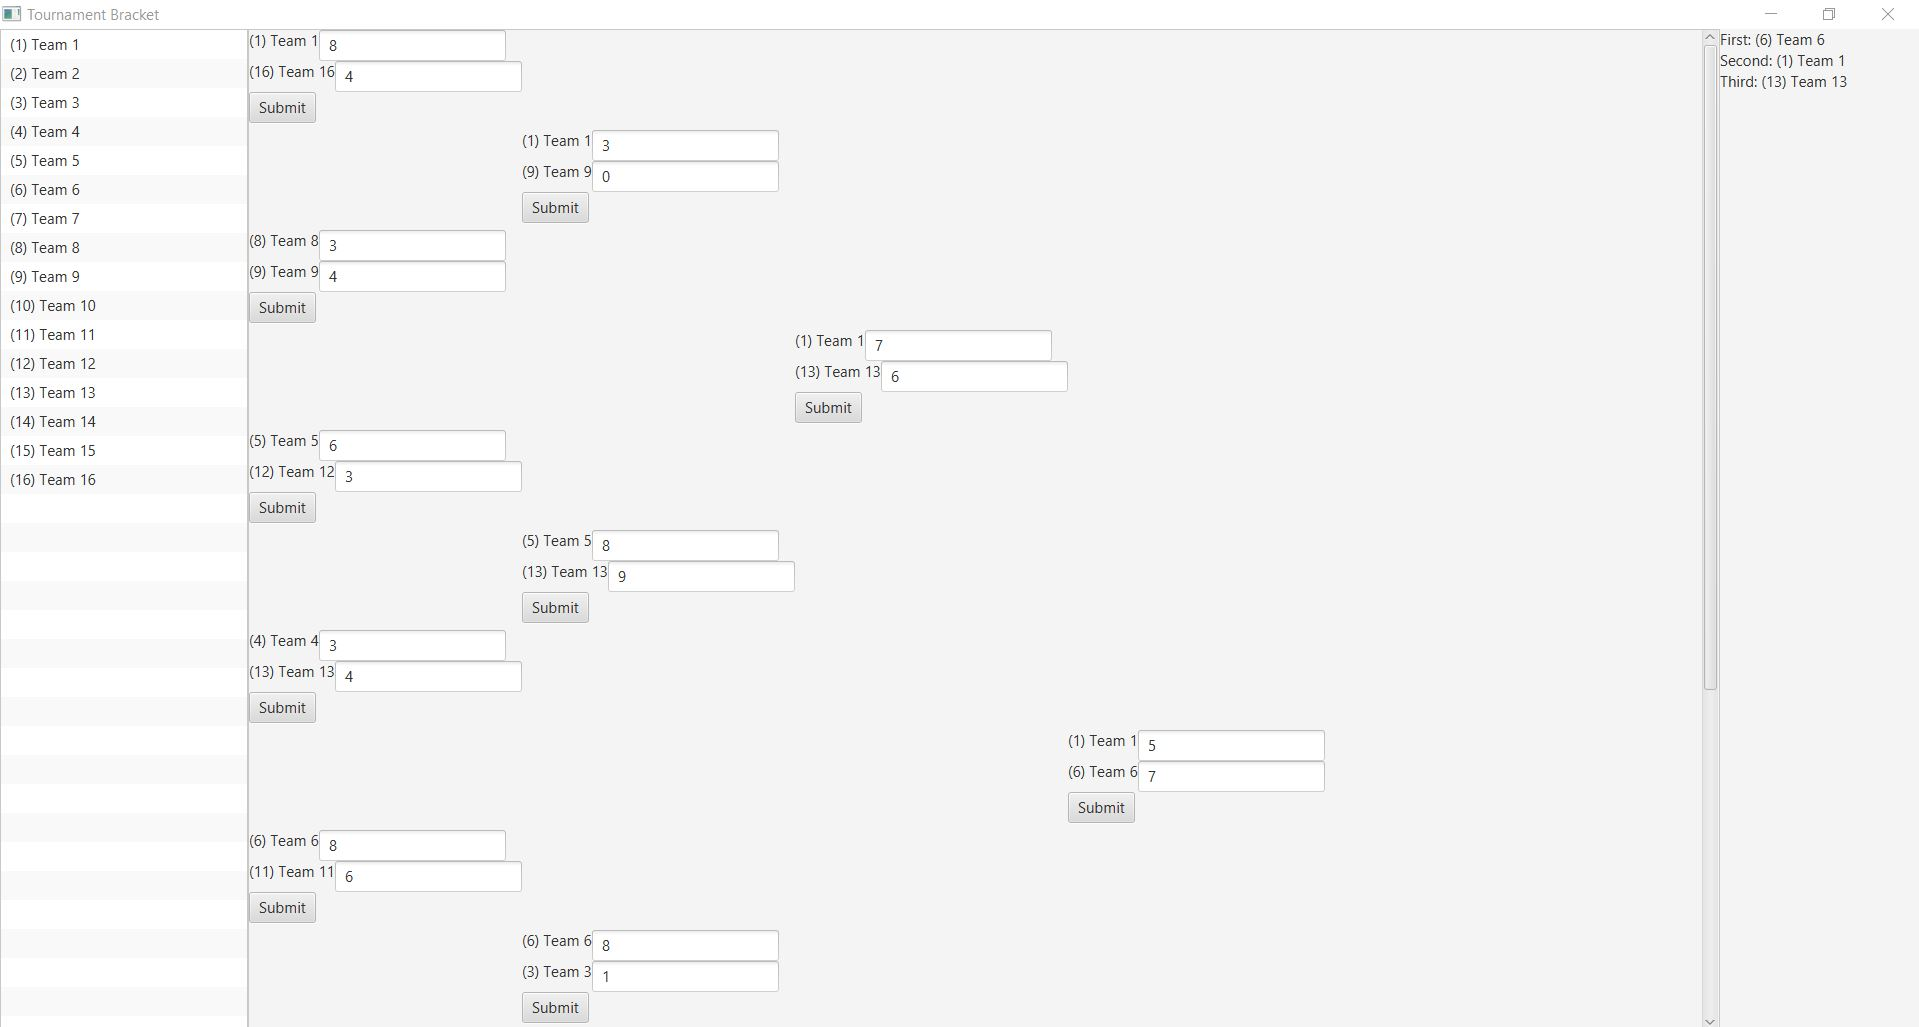
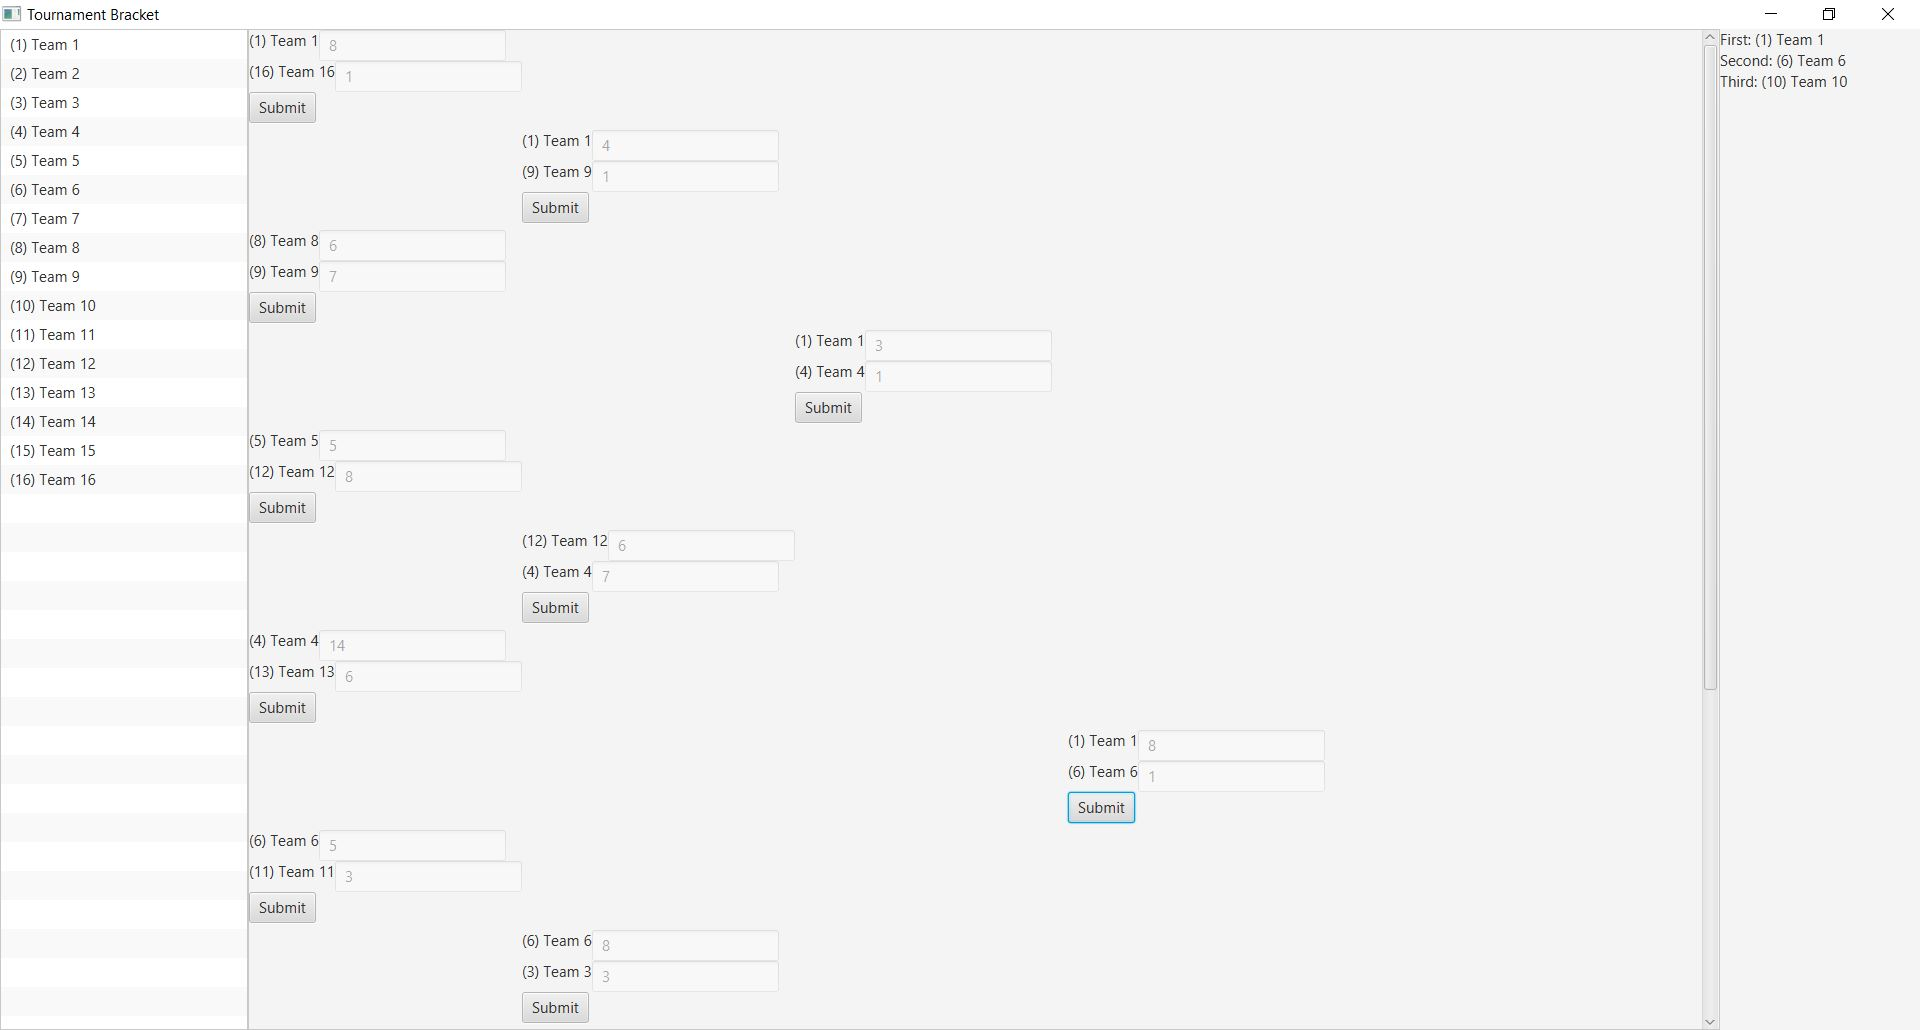
Disabled text-boxes after the submit button has been pressed.

diff --git a/TournamentBracketGui/src/application/VersusBox.java b/TournamentBracketGui/src/application/VersusBox.java
@@ -67,10 +67,13 @@ public class VersusBox extends VBox implements Scoreable, EventHandler<ActionEve
 	// describes the round (semi-final, final, etc.)
 	private TypeOfMatch matchType;
 
-	// descibes the position of the box in its pairing of two matches. Determines
+	// describes the position of the box in its pairing of two matches. Determines
 	// whether the winning team will be sent to the top or bottom slot of the next
 	// round.
 	boolean topGame;
+	
+	// whether the game match has been completed and the winning team has been sent to the next round
+	boolean isSent = false;
 
 	/**
 	 * The no-args constructor for VersusBox. Places appropriate GUI elements in the
@@ -403,7 +406,10 @@ public class VersusBox extends VBox implements Scoreable, EventHandler<ActionEve
 	@Override
 	public void handle(ActionEvent e) {
 
-		if (team1 != null && team2 != null && !(getWinner() == null)) {
+		if (team1 != null && team2 != null && !(getWinner() == null) && isSent==false) {
+			isSent = true;
+			team1TxtField.setDisable(true);
+			team2TxtField.setDisable(true);
 			switch (matchType) {
 			case GRAND_CHAMPIONSHIP:
 				Main.setFirstPlace(getWinner());
